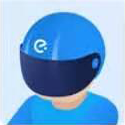
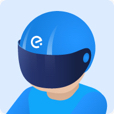
添加评论页面增加骑手评价

diff --git a/src/views/Orders/AddComment.vue b/src/views/Orders/AddComment.vue
@@ -1,9 +1,34 @@
 <template>
     <div class="add-comment">
-        <Header title="添加评论" :isLeft="true" />
+        <Header title="添加评论" :isLeft="true" bgcC="#f6f6f6"/>
         <div class="comment">
             <!-- 对骑手评价 -->
-            <div class="rider-comment"></div>
+            <div class="rider-comment">
+                <div class="rider-info">
+                    <div class="rider-head"></div>
+                    <div class="rider-other">
+                        <h4>
+                            <span>王老三</span>
+                            <strong>蜂鸟转送</strong>
+                        </h4>
+                        <h5>40分钟(13：27送达)</h5>
+                    </div>
+                </div>
+                <div class="comment-rank">
+                    <div class="comment-rank-ban">
+                        <div></div>
+                        <h4>非常差</h4>
+                    </div>
+                    <div class="comment-rank-general">
+                        <div></div>
+                        <h4>一般</h4>
+                    </div>
+                    <div class="comment-rank-good">
+                        <div></div>
+                        <h4>超赞</h4>
+                    </div>
+                </div>
+            </div>
             <!-- 对商家评价 -->
             <div class="seller-comment"></div>
             <!-- 确认评价 -->
@@ -39,7 +64,73 @@ export default {
     width: 100%;
     height: 100%;
     box-sizing: border-box;
-    background-color: #fff;
+    background-color: #f6f6f6;
     padding-top: 45px;
+}
+.rider-comment {
+    width: 94vw;
+    height: 54vw;
+    margin: 3vw;
+    background-color: #fff;
+    box-sizing: border-box;
+    border-radius: 7px;
+}
+.rider-info {
+    display: flex;
+    justify-content: flex-start;
+    padding-top: 3.112vw;
+    margin: 3.112vw;
+}
+.rider-info .rider-head {
+    width: 10.334vw;
+    height: 10.334vw;
+    background-image: url('../../assets/comment.png');
+    background-size: 10.334vw;
+    background-position: 0 0;
+}
+.rider-other {
+    margin-left: 2.115vw;
+    height: 10.334vw;
+    display: flex;
+    justify-content: space-between;
+    flex-direction: column;
+}
+.rider-other h4 {
+    font-size: 0.19rem;
+}
+.rider-other h4 strong {
+    font-size: 0.13rem;
+    background: #009eef;
+    color: #fff;
+    border-radius: 2px;
+    margin-left: 2vw;
+    padding: 0 5px;
+}
+.comment-rank {
+    display: flex;
+    justify-content: center;
+    text-align: center;
+    margin-top: 5.333vw;
+}
+.comment-rank h4 {
+    padding-top: 2.6667vw;
+}
+.comment-rank > div div {
+    margin: 2.556vw;
+    width: 15.233vw;
+    height: 15.233vw;
+    background-size: 15.233vw;
+}
+.comment-rank > div:nth-of-type(1) div {
+    background-image: url('../../assets/bad.png');
+    /* background-position: 0 -200px; */
+}
+.comment-rank > div:nth-of-type(2) div {
+    background-image: url('../../assets/general.png');
+    /* background-position: 0 -200px; */
+}
+.comment-rank > div:nth-of-type(3) div {
+    background-image: url('../../assets/good.png');
+    /* background-position: 0 -200px; */
 }
 </style>>

diff --git a/src/views/Orders/Order.vue b/src/views/Orders/Order.vue
@@ -28,7 +28,7 @@
                 </div>
             </div>
             <div class="order-card-bottom">
-                <button class="cardbutton gray" @click="$router.push({ name: 'addComment', params: order})">
+                <button v-if="order.isSuccess && !order.isComment" class="cardbutton gray" @click="$router.push({ name: 'addComment', params: order})">
                     <span>评价</span>
                 </button>
                 <button class="cardbutton" @click="deleteOrder(order)">
@@ -67,7 +67,7 @@ export default {
         getData() {
             this.$api.searchOrderInfo(localStorage.ele_login)
                 .then(res => {
-                    // console.log(res.data);
+                    console.log(res.data);
                     if (res.data) this.orderlist = res.data.orderlist;
                 });
         },

diff --git a/src/components/Basal/Header.vue b/src/components/Basal/Header.vue
@@ -1,5 +1,5 @@
 <template>
-    <div class="header" :class="{bgcBule: isBlue}">
+    <div class="header" :class="{bgcBule: isBlue}" :style="{backgroundColor: bgcC}">
         <!-- 左侧返回 -->
         <div class="header-button is-left" v-show="isLeft">
             <i class="fa fa-chevron-left"></i>
@@ -18,6 +18,10 @@ export default {
         isLeft: {
             type: Boolean,
             default: false
+        },
+        bgcC: {
+            type: String,
+            default: '#fff'
         },
         back: {
             type: String,
@@ -52,10 +56,7 @@ export default {
 <style scoped>
 .header {
     align-items: center;
-    /* background-color: #009eef; */
-    background-color: #fff;
     box-sizing: border-box;
-    /* color: #fff; */
     color: #000;
     display: flex;
     font-size: 16px;

diff --git a/src/views/Me/Me.vue b/src/views/Me/Me.vue
@@ -135,14 +135,14 @@ export default {
     align-items: center;
 }
 .head-img {
-    width: 0.6rem;
-    height: 0.6rem;
+    width: 16vw;
+    height: 16vw;
     margin-right: 4vw;
     border: 2px solid rgb(247, 227, 190);
     border-radius: 50%;
-    background-position: 0px 0px;
-    background-size: 0.6rem;
-    background-image: url("../../assets/2.png");
+    background-image: url("../../assets/user_head.png");
+    background-size: 16vw;
+    background-position: 0px -16vw;
 }
 /* 优惠信息 */
 .discounts {

diff --git a/src/views/Me/PersonalInfo.vue b/src/views/Me/PersonalInfo.vue
@@ -97,8 +97,9 @@ export default {
     height: 16vw;
     margin: 2.667vw 7vw 2.667vw auto;
     border-radius: 50%;
+    background-image: url("../../assets/user_head.png");
     background-size: 16vw;
-    background-image: url("../../assets/0.png");
+    background-position: 0px -16vw;
 }
 .head i {
     font-size: 6.667vw;
